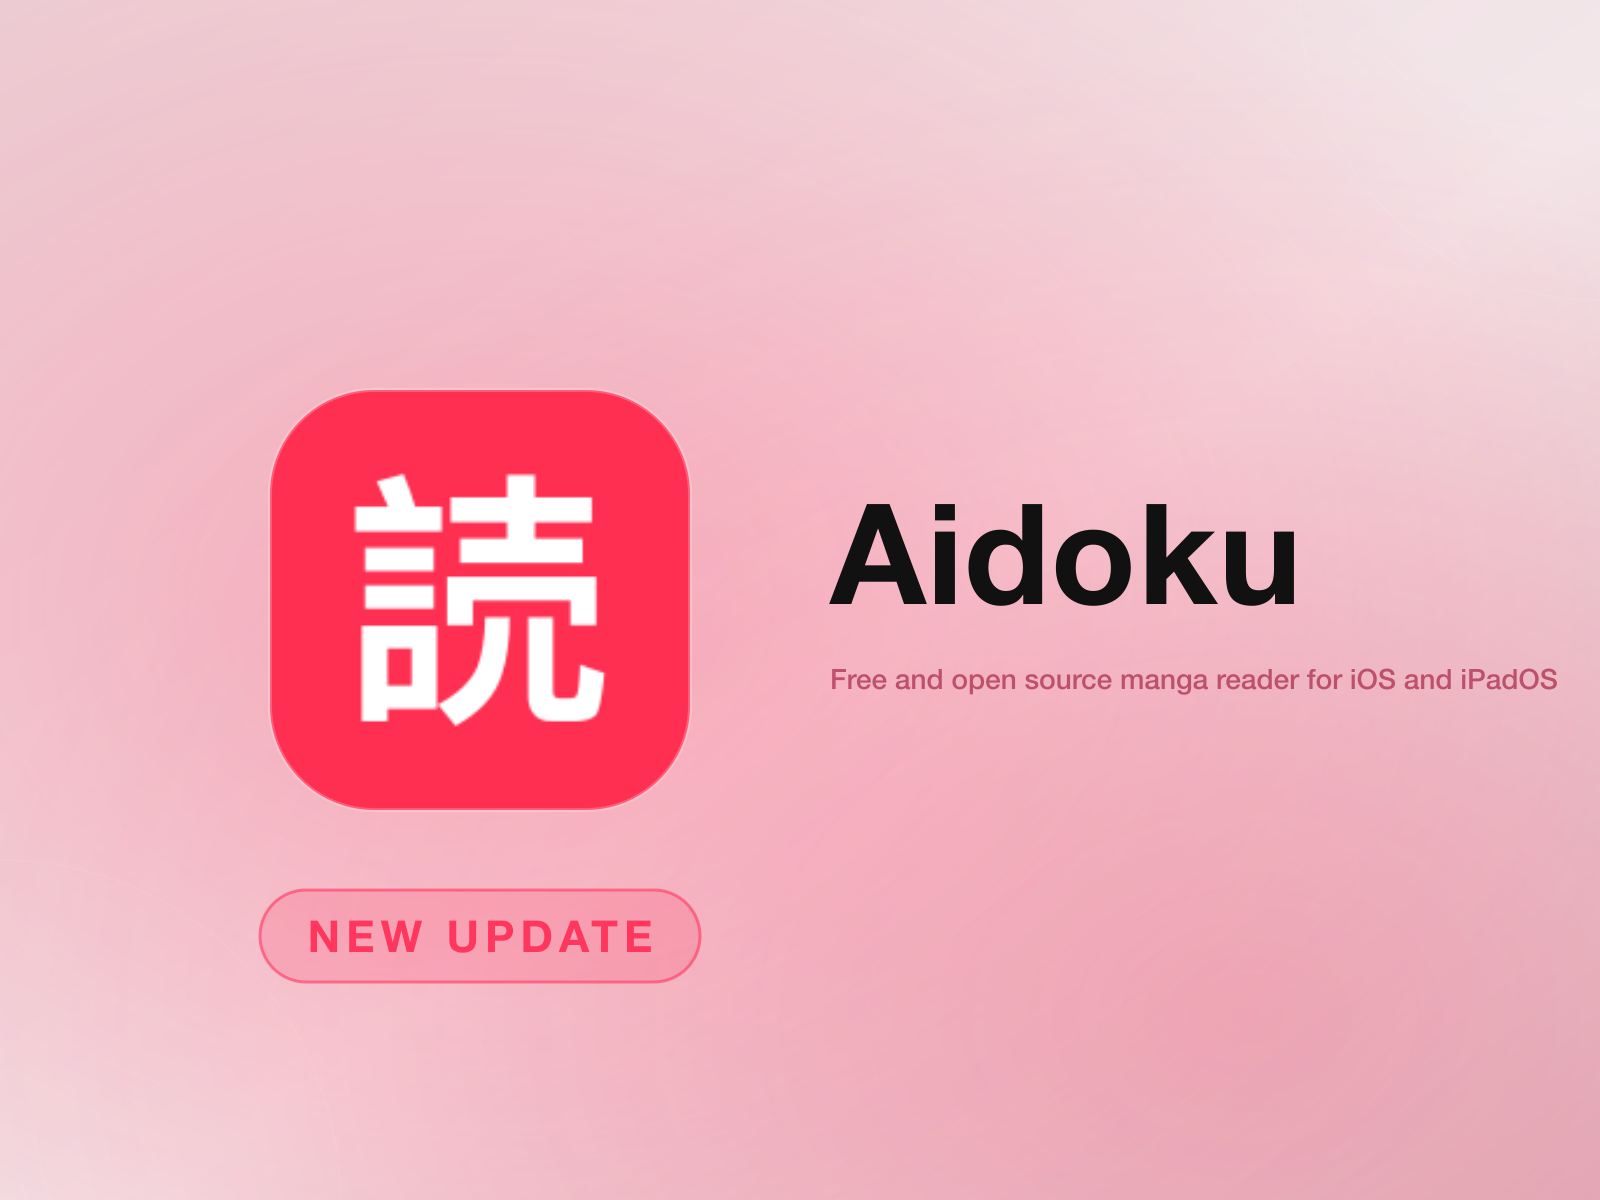
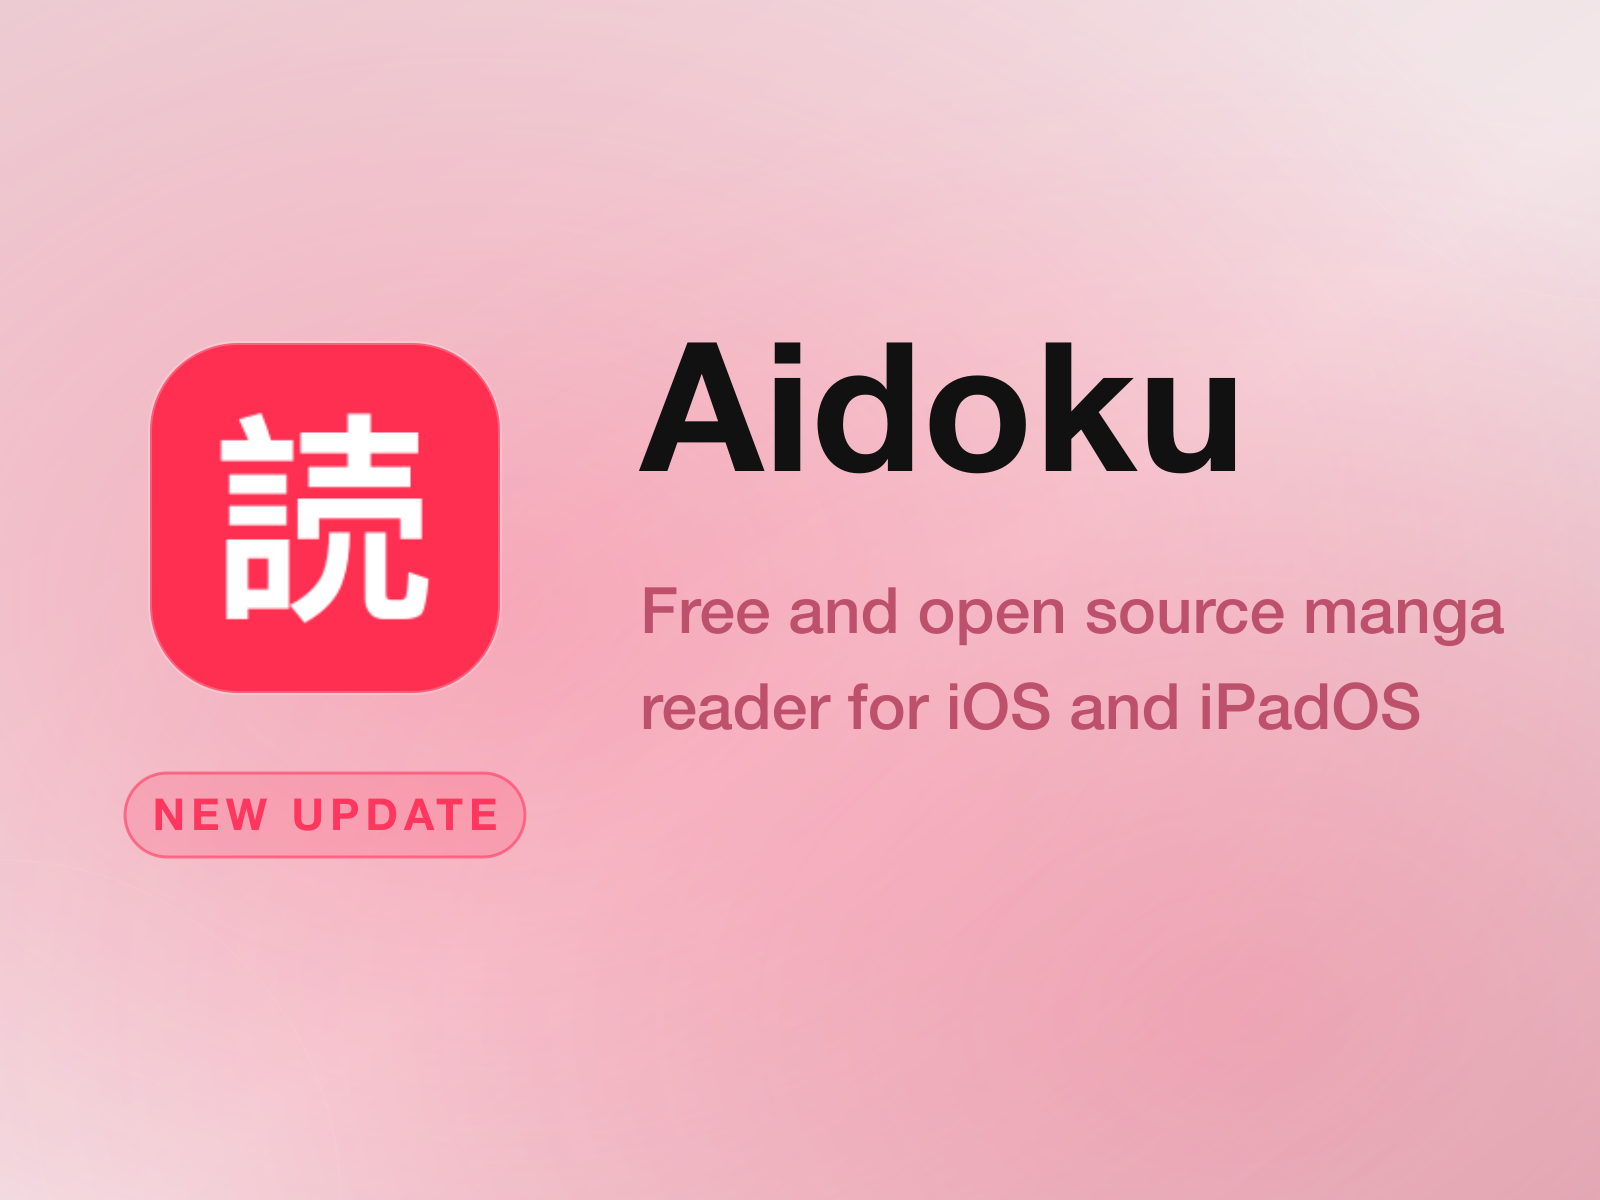
Update new image

Changed region(s): [[0.0625, 0.2775, 0.9688, 0.8325]]

diff --git a/templates/render_news.py b/templates/render_news.py
@@ -16,8 +16,11 @@ a harmonious scheme:
   - text_color        -> white (or black for light backgrounds)
   - tagline_color     -> derived from the background hue
 
-The image is deliberately minimal — icon, name, tagline, NEW UPDATE badge —
-so it stays readable on a landscape phone and several fit per screen.
+The name's cap top lines up with the icon's top edge, and the description
+wraps onto several lines (explicit newlines are honored) and is sized as
+large as it can be without overflowing the right column or dropping below
+the NEW UPDATE badge — so both columns share a vertical span and the promo
+stays readable on a landscape phone and several fit per screen.
 
 Usage:
   render_news.py --out PiliPlus              # everything from PiliPlus/news.toml
@@ -26,7 +29,7 @@ Usage:
 
 news.toml:
   name = "PiliPlus"
-  tagline = "BiliBili 第三方客户端"
+  tagline = "BiliBili 第三方客户端"            # "\n" in the value wraps too
   # Optional — unset colors are derived from config.toml:
   # [colors]
   # tint = "#73b480"             badge/glow accent (default: [app] tint_color)
@@ -45,8 +48,10 @@ import shutil
 import struct
 import subprocess
 import sys
+import tempfile
 from collections import Counter
 from pathlib import Path
+from xml.sax.saxutils import escape
 
 try:
     import tomllib
@@ -56,15 +61,42 @@ except ModuleNotFoundError:  # pragma: no cover - Python < 3.11
 TEMPLATE = Path(__file__).resolve().parent / "news_update.template.svg"
 WIDTH, HEIGHT = 1600, 1200
 
-# Right column geometry from the template: text starts at x=830 and must
-# stay inside the 1600-wide canvas with ~40px of margin.
-MAX_TEXT_WIDTH = 730
-# Approximate rendered width per ASCII char as an em fraction, calibrated
-# from rsvg-convert renders of the template's font stack. CJK glyphs are
-# full-width (~1em). Overestimating slightly is safe — it only shrinks the
-# font a bit more than strictly needed.
+# Right column geometry from the template: text starts at x=640 and must
+# stay inside the 1600-wide canvas with ~100px of right margin.
+TEXT_X = 640
+RIGHT_MARGIN = 100
+MAX_TEXT_WIDTH = WIDTH - RIGHT_MARGIN - TEXT_X  # 860
+
+# Left column geometry, shared with the template. The name's cap top aligns
+# with the icon's top edge (y=343), and the description's bottom must stay
+# above the badge's bottom edge (857) — the description font is shrunk to
+# enforce this.
+ICON_X, ICON_Y, ICON_SIZE = 150, 343, 350
+BADGE_X, BADGE_Y, BADGE_W, BADGE_H = 125, 773, 400, 84
+BADGE_BOTTOM = BADGE_Y + BADGE_H  # 857
+GAP_DESC = 40  # gap between the app name and the description
+
+# Approximate rendered width per ASCII char as an em fraction, used for the
+# description's line-wrapping and as a fallback when the real renderer can't
+# be probed. Calibrated from rsvg-convert renders of the template's font
+# stack; CJK glyphs are full-width (~1em). Overestimating slightly is safe —
+# it only wraps/shapes a bit more conservatively than strictly needed.
 NAME_WIDTH_FACTOR = 0.55     # app name, weight 800
-TAGLINE_WIDTH_FACTOR = 0.50  # tagline, weight 600
+TAGLINE_WIDTH_FACTOR = 0.50  # description, weight 600
+
+# Font-size caps. The name and description are fitted as large as they can
+# be without overflowing the right column or the vertical space above the
+# badge, so text stays readable when AltStore shows the image small.
+NAME_MAX = 180
+TAGLINE_MAX = 72
+TAGLINE_MIN = 30  # floor for a pathologically long description
+NAME_LETTER_SPACING = 1  # template name uses letter-spacing="1"
+CAP_HEIGHT_FACTOR = 0.73  # fallback cap-top height (em) when unmeasurable
+
+FONT_STACK = (
+    "'Helvetica Neue','Hiragino Sans GB','PingFang SC','Noto Sans CJK SC',"
+    "'Microsoft YaHei',sans-serif"
+)
 
 _HEX_RE = re.compile(r"^#[0-9a-fA-F]{6}$")
 
@@ -86,6 +118,186 @@ def fit_font_size(text: str, font_size: int, factor: float) -> int:
     if width <= MAX_TEXT_WIDTH:
         return font_size
     return max(1, int(font_size * MAX_TEXT_WIDTH / width))
+
+
+def _longest_prefix(text: str, font: int, factor: float, max_width: int) -> int:
+    """Length of the longest prefix of ``text`` that fits ``max_width``."""
+    lo, hi = 1, len(text)
+    while lo < hi:
+        mid = (lo + hi + 1) // 2
+        if text_width(text[:mid], font, factor) <= max_width:
+            lo = mid
+        else:
+            hi = mid - 1
+    return max(lo, 1)
+
+
+def wrap_text(text: str, font: int, factor: float, max_width: int) -> list[str]:
+    """Split ``text`` into lines that fit ``max_width`` at ``font``.
+
+    Explicit ``\\n`` always breaks a line; lines are additionally wrapped at
+    whitespace, with long CJK runs / single words character-wrapped as a
+    fallback. Keeps the description large and readable on several lines
+    instead of shrinking it onto one.
+    """
+    lines: list[str] = []
+    for para in text.split("\n"):
+        para = para.strip()
+        if not para:
+            lines.append("")
+            continue
+        current = ""
+        for word in para.split(" "):
+            trial = f"{current} {word}" if current else word
+            if text_width(trial, font, factor) <= max_width:
+                current = trial
+                continue
+            if current:
+                lines.append(current)
+            current = word
+            # A single token can still be wider than the column: break it up.
+            while current and text_width(current, font, factor) > max_width:
+                k = _longest_prefix(current, font, factor, max_width)
+                lines.append(current[:k])
+                current = current[k:]
+        if current:
+            lines.append(current)
+    return lines
+
+
+def _probe(text: str, weight: int) -> tuple[float, float] | None:
+    """Rasterize ``text`` at font-size 100 with the template's font stack and
+    return ``(width_em, ascent_em)`` where ``ascent_em`` is the cap-top height
+    above the baseline (probe baseline is y=260).
+
+    Returns None when measurement isn't available (no rsvg-convert or no
+    Pillow); callers then fall back to the per-char estimate / constants.
+    These are the *actual* renderer metrics, so the name can be fitted right
+    up to the column edge and aligned to the icon without guessing.
+    """
+    if not shutil.which("rsvg-convert"):
+        return None
+    try:
+        from PIL import Image
+    except ImportError:
+        return None
+
+    svg = (
+        '<svg xmlns="http://www.w3.org/2000/svg" width="4000" height="300"'
+        ' viewBox="0 0 4000 300">'
+        '<rect width="4000" height="300" fill="#000"/>'
+        f'<text x="0" y="260" font-family="{FONT_STACK}" font-size="100"'
+        f' font-weight="{weight}" fill="#fff">{escape(text)}</text></svg>'
+    )
+    with tempfile.TemporaryDirectory() as td:
+        svg_path = Path(td) / "probe.svg"
+        png_path = Path(td) / "probe.png"
+        svg_path.write_text(svg, encoding="utf-8")
+        try:
+            subprocess.run(
+                ["rsvg-convert", "-o", str(png_path), str(svg_path)],
+                check=True,
+                capture_output=True,
+            )
+            img = Image.open(png_path).convert("RGB")
+            w, h = img.size
+            px = img.load()
+            minx, maxx, miny, maxy = w, -1, h, -1
+            for y in range(h):
+                for x in range(w):
+                    r, g, b = px[x, y]
+                    if r > 128 and g > 128 and b > 128:
+                        if x < minx:
+                            minx = x
+                        if x > maxx:
+                            maxx = x
+                        if y < miny:
+                            miny = y
+                        if y > maxy:
+                            maxy = y
+            if maxx < 0:
+                return None
+            return (maxx - minx + 1) / 100.0, (260 - miny) / 100.0
+        except (subprocess.CalledProcessError, OSError, ValueError):
+            return None
+
+
+def measure_glyph_em(text: str, weight: int) -> float | None:
+    """Rendered glyph width of ``text`` in ems (per 100px font)."""
+    metrics = _probe(text, weight)
+    return metrics[0] if metrics else None
+
+
+def measure_font_ascent_em(weight: int) -> float | None:
+    """Cap-top height of the template font at ``weight`` in ems, measured from
+    a capital 'A' — used to line the app name's top edge up with the icon."""
+    metrics = _probe("A", weight)
+    return metrics[1] if metrics else None
+
+
+def fit_name_font(name: str) -> int:
+    """Largest app-name font size that fits the right column (cap ``NAME_MAX``),
+    using the measured renderer width where available, else the estimate."""
+    if not name:
+        return NAME_MAX
+    glyph_em = measure_glyph_em(name, 800)
+    if glyph_em is not None:
+        gaps = max(len(name) - 1, 0) * NAME_LETTER_SPACING
+        if glyph_em * NAME_MAX + gaps <= MAX_TEXT_WIDTH:
+            return NAME_MAX
+        return max(1, int((MAX_TEXT_WIDTH - gaps) / glyph_em))
+    return fit_font_size(name, NAME_MAX, NAME_WIDTH_FACTOR)
+
+
+def fit_tagline(tagline: str, max_height: float) -> tuple[list[str], int]:
+    """The description wrapped onto lines and sized to fit ``max_height`` px.
+
+    A short description stays on one line at full size when the measured
+    renderer width proves it fits; otherwise it's word-wrapped (explicit
+    ``\\n`` always breaks). Wrapping — not shrinking — keeps the text large,
+    but the whole block is also constrained to ``max_height`` so its bottom
+    stays above the NEW UPDATE badge. The per-char estimate can under-measure
+    wide glyphs, so each wrapped line is verified against the real renderer
+    and the font shrunk if a line overflows.
+    """
+    if not tagline.strip():
+        return [], TAGLINE_MAX
+    # Fast path: exact single-line fit when the real renderer says it fits.
+    if "\n" not in tagline:
+        glyph_em = measure_glyph_em(tagline, 600)
+        if glyph_em is not None and glyph_em * TAGLINE_MAX <= MAX_TEXT_WIDTH:
+            font = max(TAGLINE_MIN, min(TAGLINE_MAX, int(max_height / 1.5)))
+            return [tagline.strip()], font
+    font = TAGLINE_MAX
+    lines = wrap_text(tagline, font, TAGLINE_WIDTH_FACTOR, MAX_TEXT_WIDTH)
+    for _ in range(8):
+        # 1) Horizontal: any line the real renderer would clip shrinks the font.
+        ems = [measure_glyph_em(l, 600) for l in lines if l]
+        if ems and all(e is not None for e in ems) and max(ems) * font > MAX_TEXT_WIDTH:
+            font = max(TAGLINE_MIN, int(MAX_TEXT_WIDTH / max(ems)))
+            lines = wrap_text(tagline, font, TAGLINE_WIDTH_FACTOR, MAX_TEXT_WIDTH)
+            continue
+        # 2) Vertical: whole description must fit above the badge.
+        if len(lines) * 1.5 * font <= max_height or font <= TAGLINE_MIN:
+            break
+        font = max(TAGLINE_MIN, int(max_height / (len(lines) * 1.5)))
+        lines = wrap_text(tagline, font, TAGLINE_WIDTH_FACTOR, MAX_TEXT_WIDTH)
+    return lines, font
+
+
+def build_tagline_lines(
+    lines: list[str], y_positions: list[float], font: int, color: str
+) -> str:
+    """One ``<text>`` element per wrapped description line, left-aligned at
+    the right column's x origin with its own baseline."""
+    parts = []
+    for y, line in zip(y_positions, lines):
+        parts.append(
+            f'  <text x="{TEXT_X}" y="{y:.0f}" font-family="{FONT_STACK}"'
+            f' font-size="{font}" font-weight="600" fill="{color}"'
+            f' text-anchor="start">{escape(line)}</text>'
+        )
+    return "\n".join(parts)
 
 
 # ---------------------------------------------------------------------------
@@ -302,14 +514,31 @@ def main() -> None:
         colors.get("tagline_color") or derive_tagline_color(bg), "tagline_color"
     )
 
+    # Layout the right column: the name's cap top lines up with the icon's
+    # top edge, and the description (possibly several wrapped lines) is sized
+    # so its bottom stays above the NEW UPDATE badge's bottom edge.
+    name_font = fit_name_font(name)
+    ascent_em = measure_font_ascent_em(800) or CAP_HEIGHT_FACTOR
+    name_y = ICON_Y + ascent_em * name_font
+    name_bottom = name_y + 0.25 * name_font  # descender, conservative
+    desc_space = BADGE_BOTTOM - name_bottom - GAP_DESC
+
+    tag_lines, tagline_font = fit_tagline(tagline, desc_space)
+    line_h_tag = 1.5 * tagline_font
+    tag_ys = [
+        name_bottom + GAP_DESC + (i + 0.8) * line_h_tag for i in range(len(tag_lines))
+    ]
+
     tokens = {
-        "{{APP_NAME}}": name,
-        "{{TAGLINE}}": tagline,
+        "{{APP_NAME}}": escape(name),
+        "{{APP_NAME_SIZE}}": str(name_font),
+        "{{NAME_Y}}": f"{name_y:.0f}",
+        "{{TAGLINE_LINES}}": build_tagline_lines(
+            tag_lines, tag_ys, tagline_font, tagline_color
+        ),
         "{{ICON}}": args.icon,
         "{{TINT}}": check_hex(tint, "tint"),
         "{{TINT_ALT}}": check_hex(tint_alt, "tint_alt"),
-        "{{APP_NAME_SIZE}}": str(fit_font_size(name, 140, NAME_WIDTH_FACTOR)),
-        "{{TAGLINE_SIZE}}": str(fit_font_size(tagline, 48, TAGLINE_WIDTH_FACTOR)),
         "{{BG_COLOR}}": bg,
         "{{BG_COLOR_MID}}": bg_mid,
         "{{BG_COLOR_DARK}}": bg_dark,
